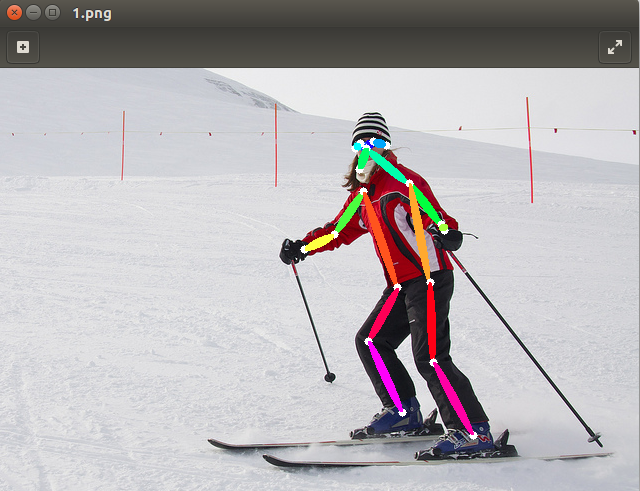
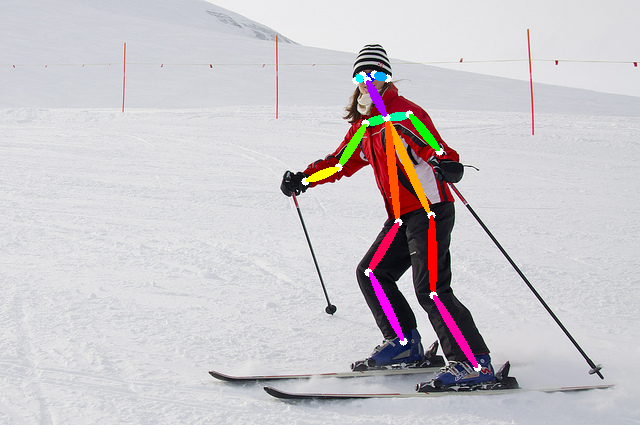
Sample outputs

diff --git a/src/evaluation/eval_net.py b/src/evaluation/eval_net.py
@@ -47,7 +47,7 @@ def eval_net(data_loader, model, opts):
             #visualize_output_single(img_basic, heatmap_t, paf_t, ignore_mask_t, heatmap_avg, paf_avg)
             img_basic = denormalize(img_basic)
             param = {'thre1': 0.1, 'thre2': 0.05, 'thre3': 0.5}
-            canvas, to_plot, candidate, subset = decode_pose(img_basic, param, heatmap_t, paf_t)
+            canvas, to_plot, candidate, subset = decode_pose(img_basic, param, heatmap_avg, paf_avg)
             keypoints_list.append(keypoints)
             append_result(dataset.indices[i], subset, candidate, outputs)
             vis_path = os.path.join(opts.saveDir, 'viz')
